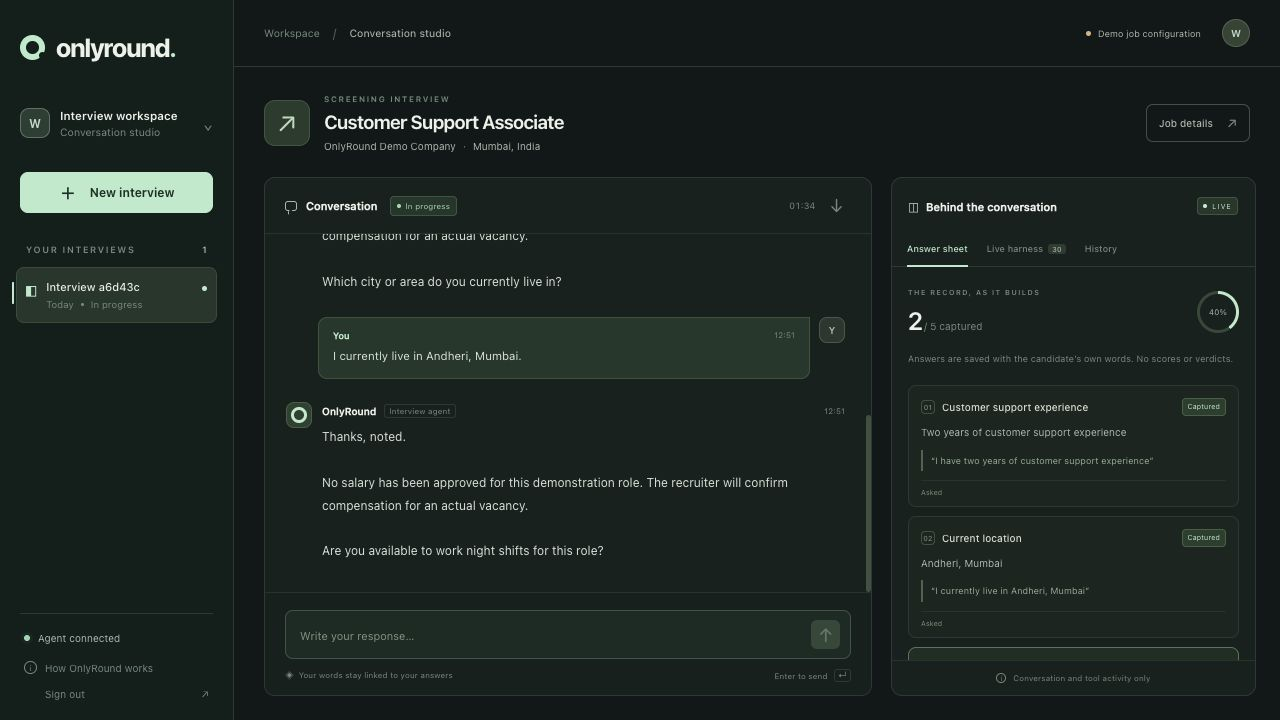
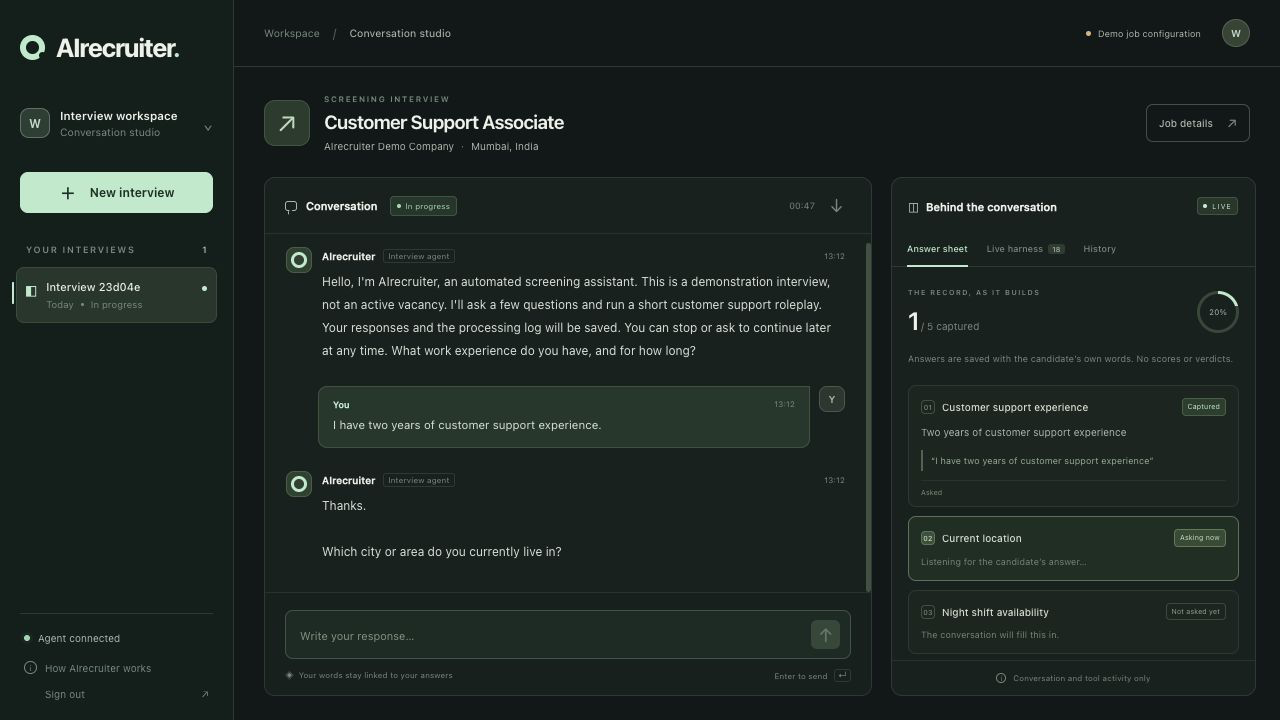
Refresh AIrecruiter contract and product screenshots

diff --git a/docs/build-contract.md b/docs/build-contract.md
@@ -8,7 +8,7 @@ Scope: conversation + visible runtime harness only. No Judge, verdict, scores or
 
 ## API / UI contract
 
-GET `/api/bootstrap` -> `{product:'OnlyRound',job:{id,title,company,location,description,criteria:[{id,name,must_have,order}],facts:[]},model_ready:bool,model:str,auth_required:bool,authenticated:bool,harnesses:[{id,name,description}]}`.
+GET `/api/bootstrap` -> `{product:'AIrecruiter',job:{id,title,company,location,description,criteria:[{id,name,must_have,order}],facts:[]},model_ready:bool,model:str,auth_required:bool,authenticated:bool,harnesses:[{id,name,description}]}`.
 POST `/api/login` `{access_code}` -> cookie auth; POST `/api/logout` clears.
 All session endpoints require cookie auth when ACCESS_CODE configured. Browser owner cookie scopes sessions (cannot read other browser's sessions). Hosted ACCESS_CODE required.
 GET `/api/sessions` -> `{sessions:[{id,state,created_at,updated_at,current_criterion_id,close_reason}]}`.
